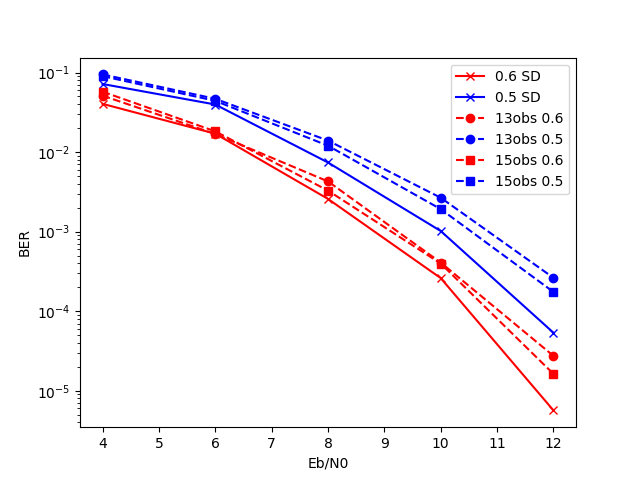
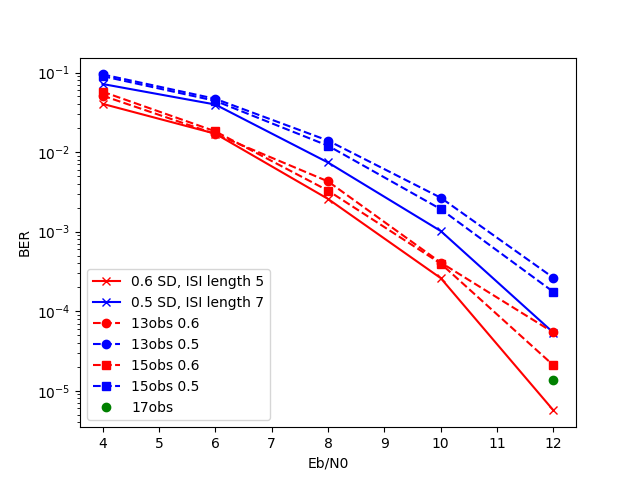
figure added

Changed region(s): [[0.125, 0.5625, 0.4375, 0.875], [0.6875, 0.125, 0.9062, 0.4062], [0.6875, 0.5625, 0.875, 0.8125]]

diff --git a/knearest.py b/knearest.py
@@ -6,6 +6,7 @@ from sklearn.cluster import KMeans, SpectralClustering
 from sklearn.ensemble import AdaBoostClassifier, RandomForestClassifier
 from sklearn.gaussian_process import GaussianProcessClassifier
 from sklearn.mixture import GaussianMixture
+from sklearn.naive_bayes import GaussianNB
 from sklearn.neighbors import KNeighborsClassifier
 from sklearn.neural_network import MLPClassifier
 from sklearn.svm import SVC
@@ -13,14 +14,17 @@ from sklearn.gaussian_process.kernels import RBF
 # from xgboost import XGBRegressor
 n = 1000
 h = np.load(f'H6Length{n}.npy')
-h_sp = h[2][0:5]
-# h_sp = h[3][0:7]
+
+# h_sp = h[1][0:3] #ch_l = 3
+h_sp = h[2][0:5] #ch_l = 5
+# h_sp = h[3][0:7] #ch_l = 7
+# h_sp = h[4][0:9] #ch_l = 9
 # ch_pw = 
 # ch_h = np.random.normal(0,np.sqrt(chPw/2),(n,n))
-# print(h[3][0:7])
+print(h_sp)
 
 class cluster:
-    def __init__(self,n_tran=19):
+    def __init__(self,n_tran=17):
         self.n_tran = n_tran
         self.mid_tran = self.n_tran//2
         self.trun_len = 5
@@ -51,10 +55,10 @@ class cluster:
             points.add(tuple(o)) 
             
 
-            if sig[self.mid_tran] < 0: 
-                neg += [o[len(o)//2]]
-            else:
-                pos += [o[len(o)//2]]
+            # if sig[self.mid_tran] < 0: 
+            #     neg += [o[len(o)//2]]
+            # else:
+            #     pos += [o[len(o)//2]]
             
 
             temp = np.round(temp,4)
@@ -76,7 +80,7 @@ class cluster:
 
         print('cluster points shape',X.shape)
         self.model = KNeighborsClassifier(n_neighbors=neigh,weights='distance').fit(X,Y)
-        # self.model = MLPClassifier(random_state=1, max_iter=300).fit(X,Y)
+        # self.model = GaussianNB().fit(X,Y)
         print('error in training:', sum(self.model.predict(X) != Y))
         return self.model
 
@@ -90,6 +94,7 @@ class cluster:
         dim = self.n_tran - self.trun_len + 1
         err = []
         for _ in range(num_iteration):
+            print(_)
             s = 2*np.random.randint(2,size=(n,1))-1
             noise = np.sqrt(noisePw/2)*np.random.standard_normal((n,1))
             r = np.dot(h,s) + noise
@@ -99,11 +104,19 @@ class cluster:
                 for id,val in enumerate(r[i-dim//2:i+dim//2+1]):
                     X_t[i-self.mid_tran][id] = np.round(val,4)
                 Y += [1 if s[i] > 0 else -1]
-
             Y = np.array(Y)
+            
+
+            
             Y_t = self.model.predict(X_t)
-            print(np.unique(Y_t))
             err += [sum(Y_t != Y)/len(Y)]
+            # print(np.shape(X_t))
+            # print(np.shape(Y_t))
+            # print(np.shape(Y))
+            # for i in range(986):
+            #     if Y_t[i] != Y[i] :
+            #         print(Y_t[i],Y[i])
+            #         print(X_t[i])
         print(np.mean(err))
         return np.mean(err)
 
@@ -111,15 +124,19 @@ class cluster:
 # model = SVC(gamma=2, C=2).fit(X,Y)
 
 
-# rng = range(3,15,2)
-# Y = []
-# for i in rng:
-#     sysModel = cluster(n_tran=i)
-#     sysModel.fitModel()
-#     Y += [sysModel.testModel(ebno=6,num_iteration=100)]
+rng = [19]
+Y = []
+for i in rng:
+    sysModel = cluster()
+    sysModel.fitModel()
+    Y += [sysModel.testModel(ebno=12,num_iteration=2000)]
 
-# plt.plot(rng,Y)
-# plt.show()
+plt.plot(rng,Y)
+plt.show()
+
+# [3,5,7,9]
+# 0.0010289046653144016, 5.397148676171079e-05, 4.5824847250509165e-05, 4.2857142857142856e-05
+
 
 
 # rng = range(1,6,2)
@@ -135,26 +152,26 @@ class cluster:
 
 # rng = range(4,13,2)
 # num_it = [10,10,100,100,1000]
-rng = [12]
-num_it = [1000]
-Y = []
-sysModel = cluster()
-sysModel.fitModel()
-for i,v in zip(rng,num_it):
-    Y += [sysModel.testModel(ebno=i,num_iteration=v)]
+# rng = [12]
+# num_it = [1000]
+# Y = []
+# sysModel = cluster(n_tran=15)
+# sysModel.fitModel()
+# for i,v in zip(rng,num_it):
+#     Y += [sysModel.testModel(ebno=i,num_iteration=v)]
 
-uncoded6_SD = [0.0404, 0.017024793388429754, 0.002578268876611418, 0.00026040995230114736, 5.66213743e-06]
-# uncoded5_SD = [0.07172414, 0.03961905, 0.00739927, 0.00101771, 5.36256457e-05]
+# uncoded6_SD = [0.0404, 0.017024793388429754, 0.002578268876611418, 0.00026040995230114736, 5.66213743e-06]
+# # uncoded5_SD = [0.07172414, 0.03961905, 0.00739927, 0.00101771, 5.36256457e-05]
 
-# array([0.0816]), array([0.04938272]), array([0.00764818]), array([0.00138072])
-# [array([0.08416667]), array([0.03162791]), array([0.00793651]), array([0.00103977])]
+# # array([0.0816]), array([0.04938272]), array([0.00764818]), array([0.00138072])
+# # [array([0.08416667]), array([0.03162791]), array([0.00793651]), array([0.00103977])]
 
-plt.yscale("log")
-plt.plot(rng,Y,'rx-')
-plt.plot(rng,uncoded6_SD,'bo-')
-plt.ylabel('BER')
-plt.xlabel('eb/no')
-plt.show()
+# plt.yscale("log")
+# plt.plot(rng,Y,'rx-')
+# plt.plot(rng,uncoded6_SD,'bo-')
+# plt.ylabel('BER')
+# plt.xlabel('eb/no')
+# plt.show()
 
 
 

diff --git a/ploting.py b/ploting.py
@@ -10,11 +10,11 @@ uncoded5_SD = [0.07172414, 0.03961905, 0.00739927, 0.00101771, 5.36256457e-05]
 
 
 # 13 obs
-obs13_6=[0.051219512195121955,0.016880081300813005,0.004278455284552845,0.0004085365853658537,2.7439024390243903e-05]
+obs13_6=[0.051219512195121955,0.016880081300813005,0.004278455284552845,0.0004085365853658537,5.397148676171079e-05]
 obs13_5=[0.09470468431771893,0.04675152749490835,0.013951120162932791,0.0026680244399185336,0.00026272912423625254]
 
 # 15 obs
-obs15_6=[0.057433808553971476,0.018228105906313647,0.0032790224032586564,0.0003971486761710794,1.6293279022403257e-05]
+obs15_6=[0.057433808553971476,0.018228105906313647,0.0032790224032586564,0.0003971486761710794,2.0875763747454175e-05]
 obs15_5=[0.09010204081632653,0.04408163265306122,0.012030612244897957,0.0019183673469387757,0.00017448979591836735]
 
 
@@ -29,8 +29,37 @@ plt.plot(rng,obs13_6,'ro--')
 plt.plot(rng,obs13_5,'bo--')
 plt.plot(rng,obs15_6,'rs--')
 plt.plot(rng,obs15_5,'bs--')
-plt.legend(['0.6 SD','0.5 SD',
+plt.plot([12],1.3775510204081633e-05,'go')
+plt.legend(['0.6 SD, ISI length 5','0.5 SD, ISI length 7',
             '13obs 0.6','13obs 0.5',
-            '15obs 0.6','15obs 0.5',])
+            '15obs 0.6','15obs 0.5','17obs'])
 plt.show()
 
+# number of cluster points: 131072
+# cluster points shape (131072, 13)
+# 6.758130081300814e-05
+
+# number of cluster points: 524288
+# cluster points shape (524288, 15)
+# 2.0875763747454175e-05
+
+# number of cluster points: 2097152
+# cluster points shape (2097152, 17)
+# 1.3775510204081633e-05
+
+plt.title('12db, tau=0.6, ISI length=5')
+plt.yscale("log")
+plt.xlabel("Observation at reciver")
+plt.ylabel("BER")
+plt.plot(range(3,19,2), [0.02438128772635815,0.004087701612903226,0.0010858585858585857, 0.0003795546558704453,
+                         0.00015618661257606493, 5.397148676171079e-05, 2.0875763747454175e-05,1.3775510204081633e-05],'bo-')
+
+plt.show()
+
+
+plt.title('12db,tau=0.6 - 13 observation at reciever')
+plt.yscale("log")
+plt.xlabel("ISI channel length in sys model")
+plt.ylabel("BER")
+plt.plot([3,5,7,9],[0.0010289046653144016, 5.397148676171079e-05, 4.5824847250509165e-05, 4.2857142857142856e-05],'ro-')
+plt.show()
